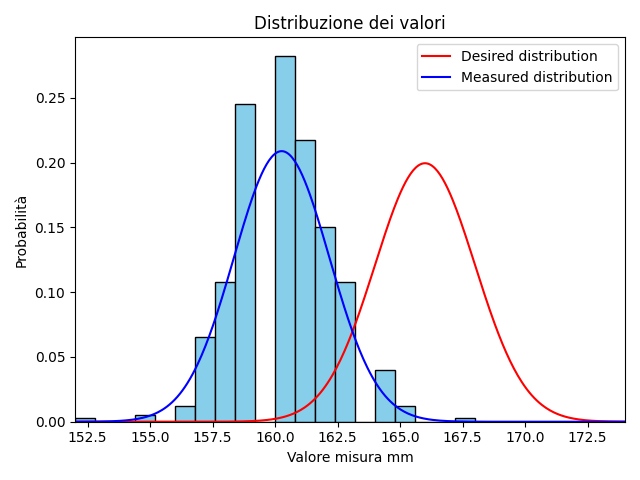
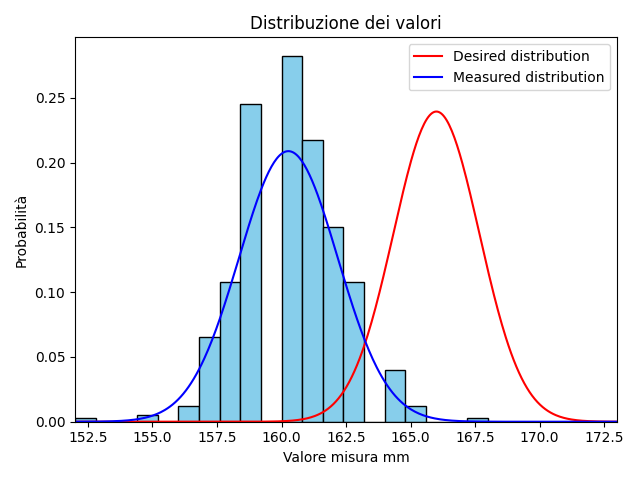
small plot adjustments

diff --git a/analyse.py b/analyse.py
@@ -122,7 +122,8 @@ def analyse_files(folder_path):
         x_values = np.linspace(0, 255, 5000)
 
         # Calculate the corresponding y values for the Gaussian distribution
-        y_values = norm.pdf(x_values, misura, 2)
+        desired_tollerance = 5
+        y_values = norm.pdf(x_values, misura, desired_tollerance/3)
         y_values_m = norm.pdf(x_values, mean_distance, std_dev_distance)
 
 
@@ -131,7 +132,7 @@ def analyse_files(folder_path):
         plt.plot(x_values, y_values_m, 'b-', label='Measured distribution')
         plt.legend()
 
-        plt.xlim(min_value,max(misura,max_value) + 6)
+        plt.xlim(min_value,max(misura,max_value) + desired_tollerance)
 
         # Add labels and title
         plt.xlabel("Valore misura mm")
@@ -156,9 +157,16 @@ def analyse_files(folder_path):
     
     plt.figure(figsize=(10, 6))  # Optional: Set the figure size
     equation = f'Y = {slope:.2f}X + {intercept:.2f}'
-    plt.text(0.5, 0.9, equation, ha='center', va='center', transform=plt.gca().transAxes, fontsize=10, bbox=dict(facecolor='white', alpha=0.5))
+    plt.text(0.8, 0.9, equation, ha='center', va='center', transform=plt.gca().transAxes, fontsize=10, bbox=dict(facecolor='white', alpha=0.5))
 
-    plt.plot(stats_df["valore"], predicted_values, color='yellow', label='Linear Regression Curve')
+    plt.plot(
+        stats_df["valore"], 
+        predicted_values,
+        color='brown',
+        label='Linear Regression Curve',
+        linestyle="-",
+        linewidth=2,
+             )
     plt.plot(
         stats_df["valore"].astype(float),
         stats_df["valore"].astype(float),
